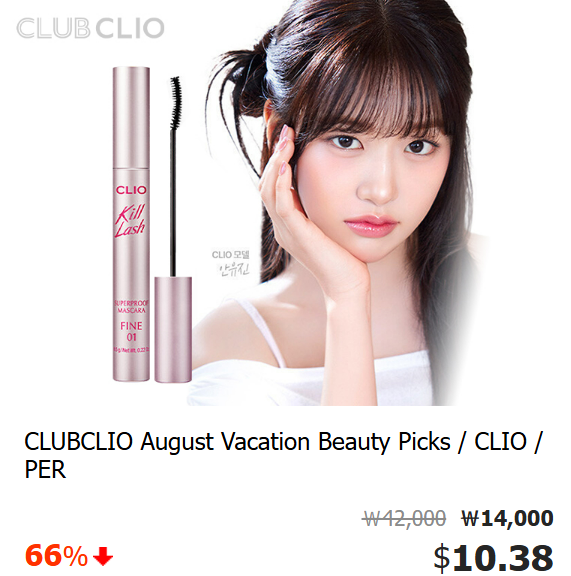
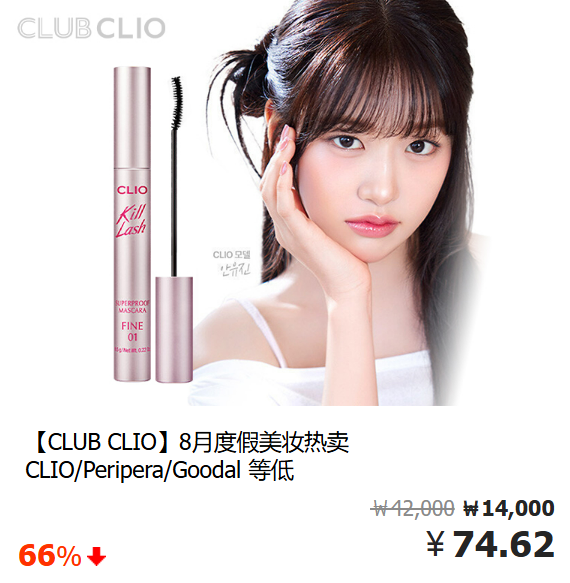
250820

diff --git a/0819/0819superdeal_dm_en.html b/0819/0819superdeal_dm_en.html
@@ -58,7 +58,7 @@
 		      </tr>
 			  <!--쿠폰-->
               <tr>
-				  <td valign="top" class="bl"><img style="vertical-align:top;"  src="https://gi.esmplus.com/test4glob/1/2025-08-19/0820_main.png" width="800" usemap="#deal01" border="0"></td>
+				  <td valign="top" class="bl"><img style="vertical-align:top;"  src="https://gi.esmplus.com/test4glob/1/2025-08-19/en_mainboard.png" width="800" usemap="#deal01" border="0"></td>
 		      </tr>
 			  <!--//쿠폰-->
 			  <!--See all btn-->
@@ -68,7 +68,7 @@
 			   <!--//See all btn-->
 			  <!--배너-->
 			  <tr>
-				  <td style="vertical-align:top;" class="bl"><a href="https://glrpp.gmarket.co.kr/289006?charset=enUS" target="_blank"><img style="vertical-align:top;"  src="https://gi.esmplus.com/test4glob/1/2025-08-19/0819_dm_en_promotion_1_1.png" width="800"></a></td>
+				  <td style="vertical-align:top;" class="bl"><a href="https://glrpp.gmarket.co.kr/289006?charset=enUS" target="_blank"><img style="vertical-align:top;"  src="https://gi.esmplus.com/test4glob/1/2025-08-19/0819_dm_en_promotion_1.png" width="800"></a></td>
 		     </tr>
 			 <tr>
 				  <td style="vertical-align:top;" class="bl"><a href="https://glrpp.gmarket.co.kr/294005?charset=enUS" target="_blank"><img style="vertical-align:top;"  src="https://gi.esmplus.com/test4glob/1/2025-08-19/0819_dm_en_promotion_2.png" width="800"></a></td>

diff --git a/0819/0819superdeal_dm_cn.html b/0819/0819superdeal_dm_cn.html
@@ -65,7 +65,7 @@
 		      </tr>
 			  <!--쿠폰-->
               <tr>
-				  <td valign="top" class="bl"><img style="vertical-align:top;"  src="https://gi.esmplus.com/test4glob/1/2025-08-19/0820_main.png" width="800" border="0" usemap="#deal01"></td>
+				  <td valign="top" class="bl"><img style="vertical-align:top;"  src="https://gi.esmplus.com/test4glob/1/2025-08-19/cn_mainboard.png" width="800" border="0" usemap="#deal01"></td>
 		      </tr>
 			  <!--//쿠폰-->
               <tr>
